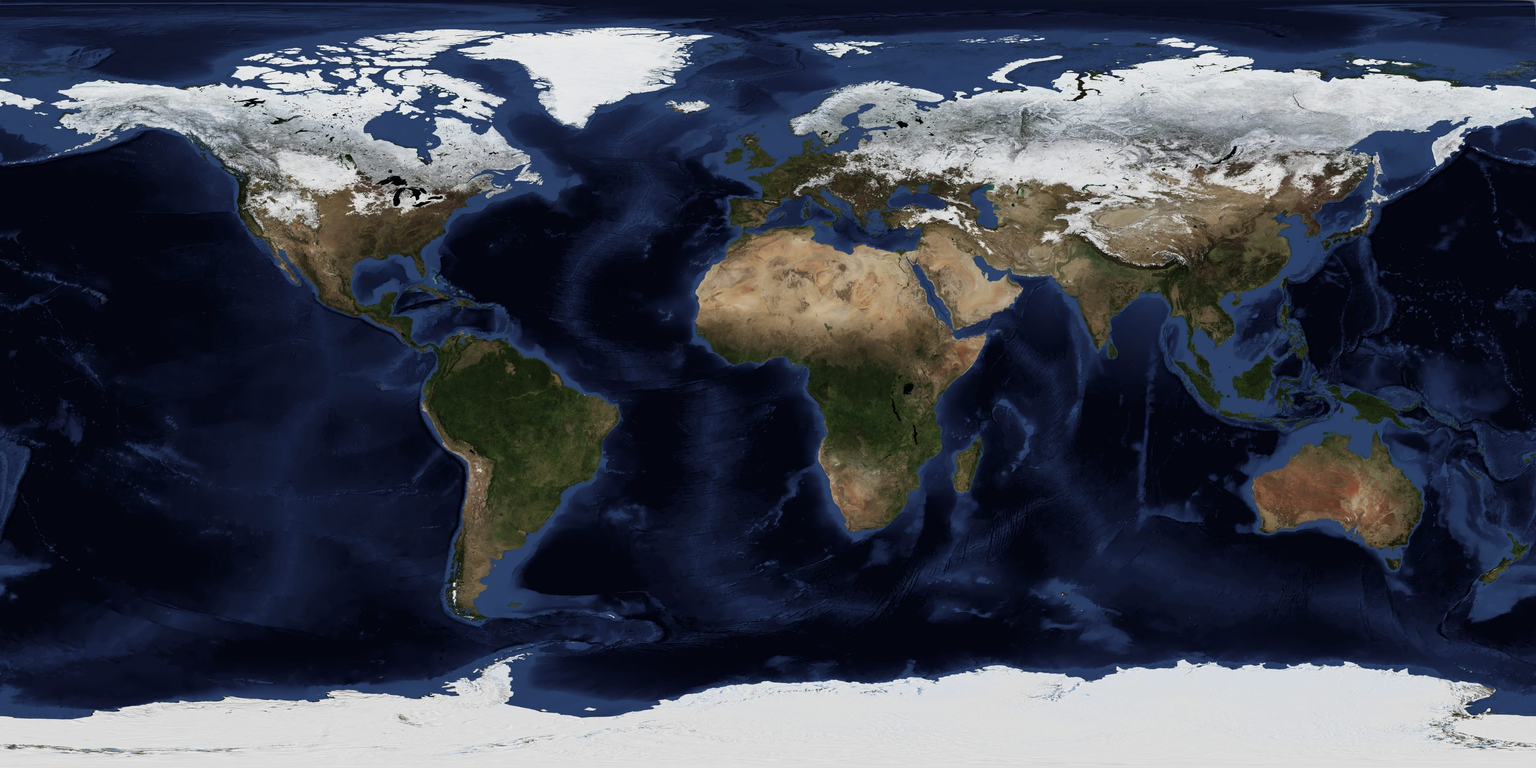
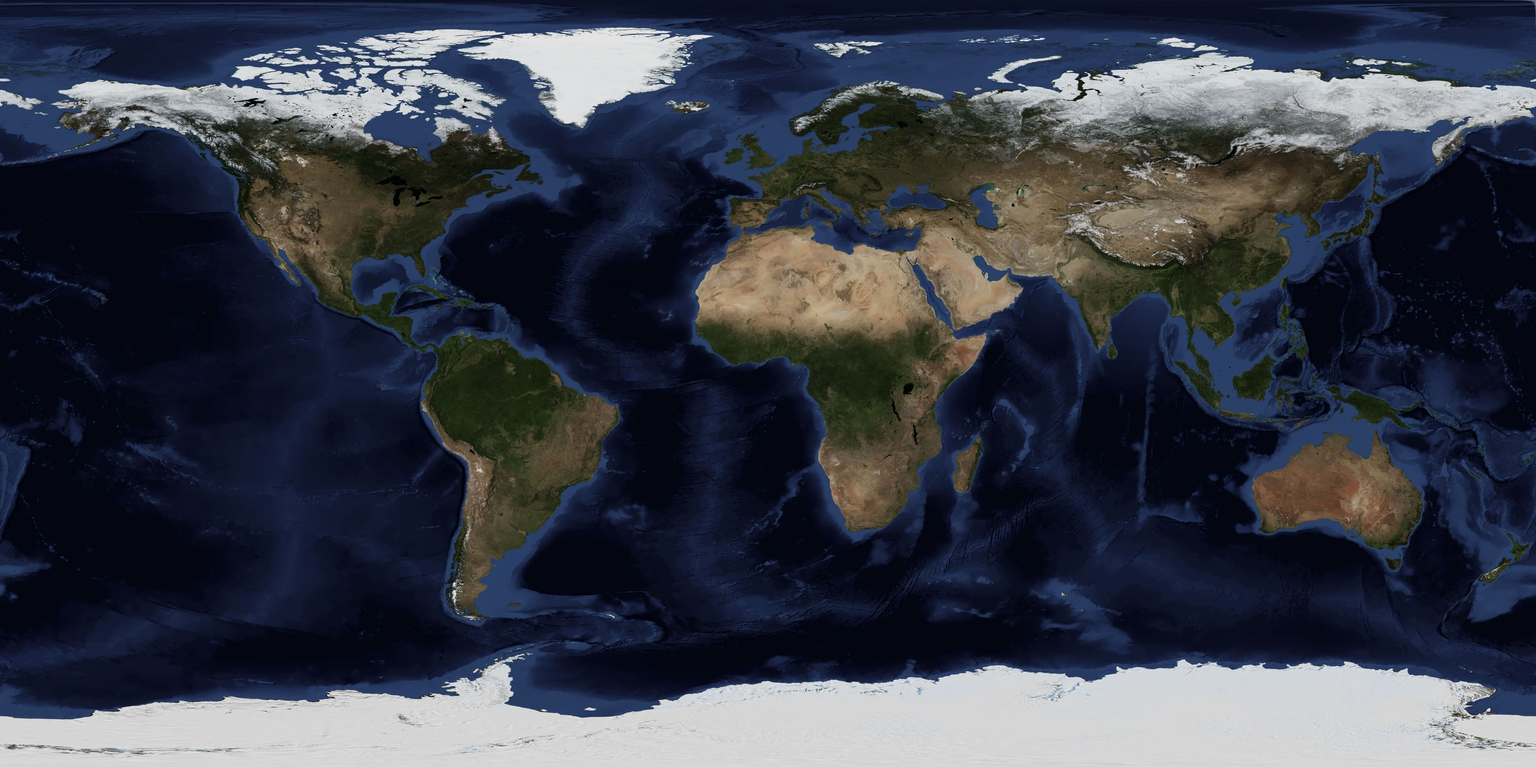
Dark weekend fits a phone: smaller globe kept whole in frame, tighter clock and captions, the NVDAB strip and its agent legend in view for the whole pin; labels moved out of the stretched SVG. Earth day imagery is now the full-resolution October Blue Marble (the season the site runs in; the old text

diff --git a/apps/web/src/sections/weekend/DarkWeekend.tsx b/apps/web/src/sections/weekend/DarkWeekend.tsx
@@ -60,11 +60,11 @@ function Captions({ index, openHours, sealed, darkHours }: { index: number; open
   ];
   const it = items[Math.min(index, items.length - 1)]!;
   return (
-    <div className="relative min-h-[11rem]" aria-live="polite">
+    <div className="relative min-h-[7.5rem] md:min-h-[11rem]" aria-live="polite">
       <AnimatePresence mode="wait">
         <motion.div key={index} initial={{ opacity: 0, y: 14, filter: "blur(6px)" }} animate={{ opacity: 1, y: 0, filter: "blur(0px)" }} exit={{ opacity: 0, y: -10, filter: "blur(6px)" }} transition={{ duration: 0.45 }}>
-          <h3 className="text-[clamp(1.9rem,3.2vw,2.9rem)] font-[300] leading-[1.06]">{it.h}</h3>
-          <p className="mt-3 max-w-[46ch] text-[16px] leading-relaxed text-moon-2">{it.p}</p>
+          <h3 className="text-[clamp(1.6rem,3.2vw,2.9rem)] font-[300] leading-[1.06]">{it.h}</h3>
+          <p className="mt-2 max-w-[46ch] text-[14.5px] leading-relaxed text-moon-2 md:mt-3 md:text-[16px] [@media(max-height:700px)]:hidden">{it.p}</p>
         </motion.div>
       </AnimatePresence>
     </div>
@@ -152,37 +152,41 @@ export default function DarkWeekend() {
   return (
     <section ref={root} className="relative h-[100svh] overflow-hidden bg-night-0" aria-labelledby="weekend-title">
       <div className="absolute inset-0 bg-[radial-gradient(60%_70%_at_70%_45%,rgb(29_40_67/0.6),transparent_70%)]" aria-hidden />
-      <div className={`absolute ${mobile ? "inset-x-0 top-16 h-[46svh]" : "inset-y-0 right-0 w-[64%]"}`} aria-hidden>
+      <div className={`absolute ${mobile ? "inset-x-0 top-14 h-[33svh]" : "inset-y-0 right-0 w-[64%]"}`} aria-hidden>
         <Suspense fallback={null}>
           <Earth timeRef={timeRef} active={reduce ? false : inView} mobile={mobile} />
         </Suspense>
       </div>
-      <div className="relative mx-auto flex h-full max-w-[1320px] flex-col justify-between px-4 pb-8 pt-24 sm:px-6 md:pt-28">
-        <div className={mobile ? "mt-[40svh]" : "max-w-[34rem]"}>
+      <div className="relative mx-auto flex h-full max-w-[1320px] flex-col justify-between px-4 pb-5 pt-20 sm:px-6 md:pb-8 md:pt-28">
+        <div className={mobile ? "mt-[29svh]" : "max-w-[34rem]"}>
           <p id="weekend-title" className="text-[14px] font-medium text-sodium/90">
             The dark weekend
           </p>
           <div className="mt-3 flex items-baseline gap-4">
-            <time className="font-display text-[clamp(2.6rem,5vw,4.4rem)] font-[300] leading-none text-moon-0">{etClock.format(simT)} ET</time>
+            <time className="whitespace-nowrap font-display text-[clamp(2.4rem,5vw,4.4rem)] font-[300] leading-none text-moon-0">{etClock.format(simT)} ET</time>
           </div>
-          <p className="num mt-2 text-[13px] text-moon-3">
-            {utcClock.format(simT)} UTC, {elapsed.toFixed(1)} h of {darkHours} h without a reference price
+          <p className="num mt-2 text-[12.5px] text-moon-3 md:text-[13px]">
+            <span className="max-sm:hidden">{utcClock.format(simT)} UTC, </span>
+            {elapsed.toFixed(1)} h of {darkHours} h without a reference price
           </p>
-          <div className="mt-8">
+          <div className="mt-4 md:mt-8">
             <Captions index={reduce ? 3 : caption} openHours={openHours} sealed={commits.length} darkHours={darkHours} />
           </div>
         </div>
 
-        <div className="relative mt-6">
-          <div className="mb-2 flex flex-wrap items-end justify-between gap-3 text-[12.5px] text-moon-3">
-            <span>NVDAB, consensus for Monday's open and each agent's sealed forecasts</span>
+        <div className="relative mt-4 md:-mx-4 md:mt-6 md:rounded-[12px] md:bg-night-0/70 md:px-4 md:pb-3 md:pt-3">
+          <div className="mb-2 flex flex-wrap items-end justify-between gap-x-3 gap-y-1 text-[12.5px] text-moon-3">
+            <span>
+              NVDAB<span className="max-sm:hidden">, consensus for Monday's open and each agent's sealed forecasts</span>
+            </span>
             {cur && (
               <span className="num text-moon-1">
                 {usd(cur.fairValue)} <span className="text-moon-3">band</span> {usd(cur.lower)} – {usd(cur.upper)}
               </span>
             )}
           </div>
-          <svg viewBox="0 0 1000 150" preserveAspectRatio="none" className="h-[132px] w-full overflow-visible" role="img" aria-label={`NVDAB consensus for the bell over ${pts.length} rounds, ${commits.length} forecasts sealed on BNB Chain`}>
+          <div className="relative">
+          <svg viewBox="0 0 1000 150" preserveAspectRatio="none" className="h-[92px] w-full overflow-visible md:h-[132px]" role="img" aria-label={`NVDAB consensus for the bell over ${pts.length} rounds, ${commits.length} forecasts sealed on BNB Chain`}>
             <defs>
               <clipPath id="ns-week-clip">
                 <rect ref={clip} x="0" y="-10" width={reduce ? 1000 : 0} height="170" />
@@ -198,25 +202,37 @@ export default function DarkWeekend() {
               {pts.length > 0 && <path d={step((q) => q.fairValue)} fill="none" stroke="#FFB23F" strokeOpacity="0.35" strokeDasharray="3 4" strokeWidth="1.5" vectorEffect="non-scaling-stroke" />}
               {pts.length > 0 && <path d={step((q) => q.fairValue)} fill="none" stroke="#FFB23F" strokeWidth="2" vectorEffect="non-scaling-stroke" clipPath="url(#ns-week-real)" />}
               <line x1={nowX} x2={nowX} y1="0" y2="100" stroke="#F4F1E8" strokeOpacity="0.7" strokeWidth="1" vectorEffect="non-scaling-stroke" />
-              <text x={nowX + 6} y="12" fontSize="10.5" fill="#E4E1D6">
-                now
-              </text>
               {(["anchor", "echo", "nfv"] as const).map((f, li) =>
                 commits
                   .filter((c) => c.forecaster === f)
                   .map((c) => <rect key={`${f}-${c.round}`} x={X(c.t) - 1} y={108 + li * 13} width="2.2" height="9" fill={LANE[f]} />),
               )}
             </g>
-            {(["anchor", "echo", "nfv"] as const).map((f, li) => (
-              <text key={f} x="-6" y={116 + li * 13} textAnchor="end" fontSize="10" fill="#7C859D">
-                {f}
-              </text>
-            ))}
             <line x1="1000" x2="1000" y1="0" y2="150" stroke="#FFB23F" strokeWidth="1.5" strokeDasharray={atBell ? undefined : "4 4"} vectorEffect="non-scaling-stroke" />
           </svg>
-          <div className="mt-1 flex justify-between text-[12px] text-moon-3">
-            <span>Friday close, {etClock.format(close)} ET</span>
-            <span className={atBell ? "text-sodium" : ""}>The bell, {etClock.format(bell)} ET</span>
+            {(reduce || p * 1000 >= nowX) && (
+              <span className="absolute top-0 ml-1.5 text-[11px] leading-none text-moon-1" style={{ left: `${nowX / 10}%` }}>
+                now
+              </span>
+            )}
+          </div>
+          <div className="mt-1.5 flex items-center justify-between gap-3 text-[12px] text-moon-3">
+            <span>
+              <span className="max-sm:hidden">Friday close, </span>
+              {etClock.format(close)} ET
+            </span>
+            <span className="flex items-center gap-3" aria-label="Sealed forecasts by agent">
+              {(["anchor", "echo", "nfv"] as const).map((f) => (
+                <span key={f} className="inline-flex items-center gap-1.5">
+                  <span className="h-2.5 w-[3px] rounded-[1px]" style={{ background: LANE[f] }} aria-hidden />
+                  {f}
+                </span>
+              ))}
+            </span>
+            <span className={atBell ? "text-sodium" : ""}>
+              <span className="max-sm:hidden">The bell, </span>
+              {etClock.format(bell)} ET
+            </span>
           </div>
         </div>
       </div>

diff --git a/apps/web/scripts/assets.ts b/apps/web/scripts/assets.ts
@@ -69,12 +69,13 @@ async function textures() {
   await sharp(out, { raw: { width: W, height: H, channels: 3 } }).png({ compressionLevel: 9 }).toFile(join(PUB, "tex", "moon-normal-1k.png"));
   console.log("tex moon: color 2k/1k + normal 1k");
 
-  // Earth: Black Marble 2016 (night lights) + Blue Marble NG January (day), public domain.
+  // Earth: Black Marble 2016 (night lights) + Blue Marble NG October (day, the season the site runs in), public domain.
   const night = await fetchTo("https://assets.science.nasa.gov/content/dam/science/esd/eo/images/imagerecords/144000/144898/BlackMarble_2016_01deg.jpg", "blackmarble_01deg.jpg");
   await sharp(night).resize(2048, 1024).jpeg({ quality: 82, mozjpeg: true }).toFile(join(PUB, "tex", "earth-night-2k.jpg"));
-  const day = await fetchTo("https://assets.science.nasa.gov/dynamicimage/assets/science/esd/eo/images/bmng/bmng-topography-bathymetry/january/world.topo.bathy.200401.3x5400x2700.jpg", "bluemarble_jan.jpg");
-  await sharp(day).resize(2048, 1024).modulate({ saturation: 0.7, brightness: 0.9 }).jpeg({ quality: 80, mozjpeg: true }).toFile(join(PUB, "tex", "earth-day-2k.jpg"));
-  console.log("tex earth: day + night 2k");
+  const day = await fetchTo("https://assets.science.nasa.gov/content/dam/science/esd/eo/images/bmng/bmng-topography-bathymetry/october/world.topo.bathy.200410.3x5400x2700.jpg", "bluemarble_oct.jpg");
+  for (const [w, q] of [[2048, 80], [4096, 78]] as const)
+    await sharp(day).resize(w, w / 2).modulate({ saturation: 0.7, brightness: 0.9 }).jpeg({ quality: q, mozjpeg: true }).toFile(join(PUB, "tex", `earth-day-${w / 1024}k.jpg`));
+  console.log("tex earth: day 2k/4k (October) + night 2k");
 }
 
 /** Real stars ≤ mag 5.5 as a compact array: [ra(deg), dec(deg), mag, bv] × N, plus constellation lines. */

diff --git a/apps/web/src/charts/FanChart.tsx b/apps/web/src/charts/FanChart.tsx
@@ -164,7 +164,8 @@ export function FanChart({ h, height = 420 }: { h: History; height?: number }) {
             {lastClose != null && (
               <g>
                 <line x1={m.l} x2={W - m.r} y1={y(lastClose)} y2={y(lastClose)} stroke="#7C859D" strokeDasharray="3 4" />
-                <text x={m.l + 6} y={y(lastClose) - 6} fontSize="11" fill="#A9B0C2">
+                {/* In the empty stretch between now and the bell when there's room, so it never sits on the lines. */}
+                <text x={x(h.nextAnchor) - xn > 150 ? xn + 10 : m.l + 6} y={y(lastClose) + 15} fontSize="11" fill="#A9B0C2" stroke="#151E35" strokeWidth="3" paintOrder="stroke">
                   Last close {usd(lastClose)}
                 </text>
               </g>

diff --git a/apps/web/src/pages/Stock.tsx b/apps/web/src/pages/Stock.tsx
@@ -112,7 +112,8 @@ export default function Stock() {
       <header className="mt-6 grid grid-cols-[minmax(0,1fr)] gap-8 lg:grid-cols-[minmax(0,1fr)_auto] lg:items-end">
         <div>
           <p className="text-[14px] text-moon-2">
-            <span className="num text-moon-0">{sym}</span> {ticker && <>, the bStock for {ticker} on BNB Chain</>}
+            <span className="num text-moon-0">{sym}</span>
+            {ticker && <>, the bStock for {ticker} on BNB Chain</>}
           </p>
           <p className="mt-3 text-[13px] text-moon-3">{open ? "Live fair value (market open)" : `Fair value for the open, ${et(bell)}`}</p>
           <div className="mt-1 text-[clamp(3rem,7vw,5.6rem)] font-[300] leading-none text-moon-0">

diff --git a/apps/web/src/sections/weekend/Earth.tsx b/apps/web/src/sections/weekend/Earth.tsx
@@ -101,9 +101,9 @@ function Globe({ timeRef, mobile }: { timeRef: MutableRefObject<number>; mobile:
 
 function Camera({ mobile }: { mobile: boolean }) {
   useFrame(({ camera }) => {
-    const p = latLonToVec(28, -80, mobile ? 3.6 : 3.25);
+    const p = latLonToVec(28, -80, mobile ? 4.15 : 3.25);
     camera.position.copy(p);
-    camera.lookAt(mobile ? 0 : -0.42, mobile ? 0.1 : 0.06, 0);
+    camera.lookAt(mobile ? 0 : -0.42, mobile ? 0 : 0.06, 0);
   });
   return null;
 }
